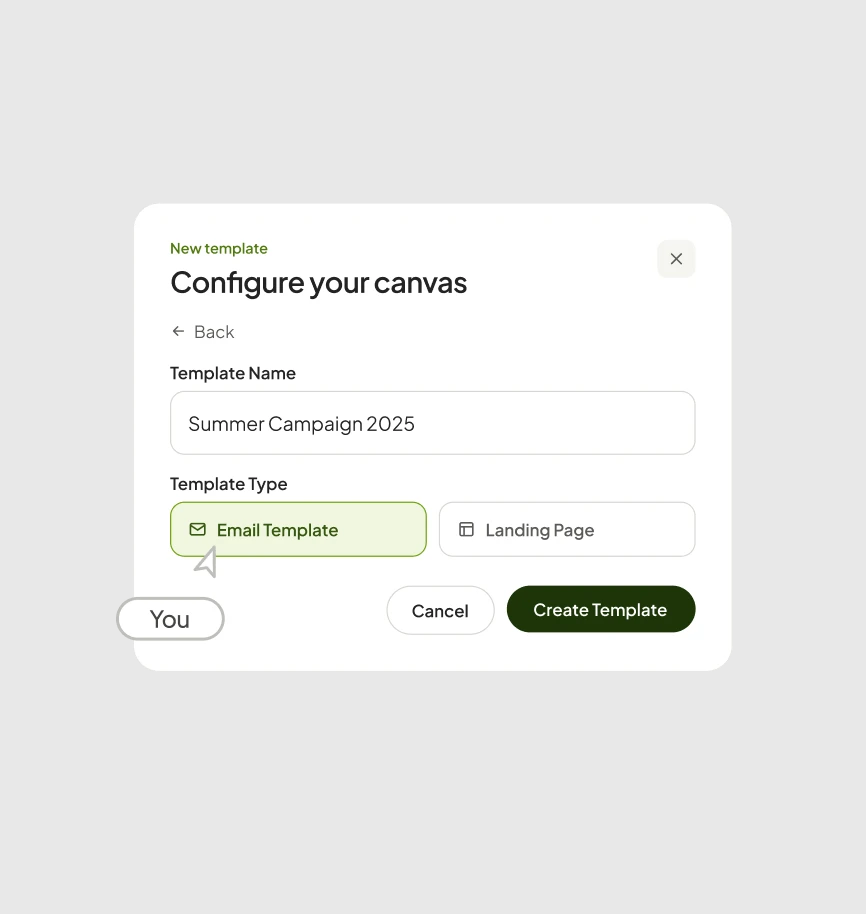
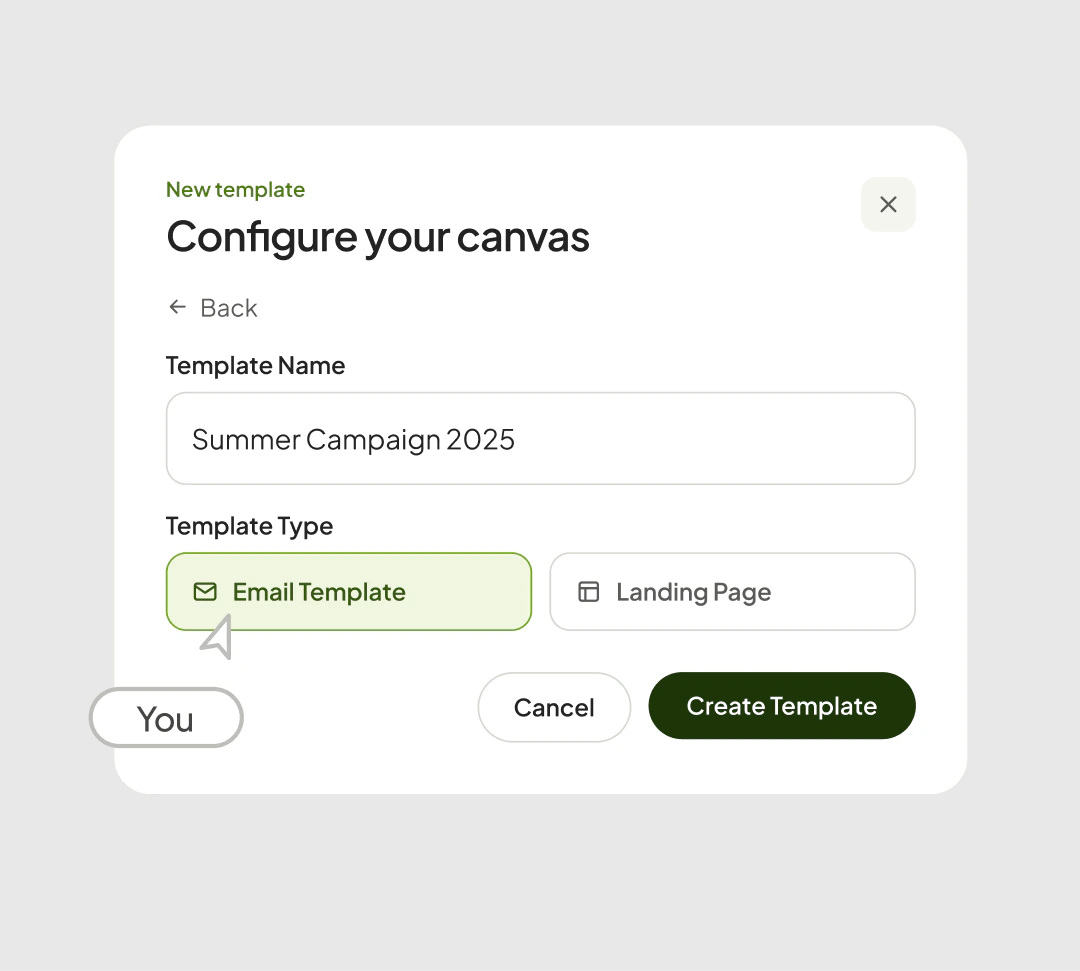
Steps: bigger cards and type from the updated Figma (532:24115)
Cards are 1128x536 (r20, 1.3px border, gap 52) with 540x485 screens
re-exported at 2x, and larger type: step number 18/27, title 24/30,
description 18/27. The stacking offsets (86 / 155) and the scroll pacing
stay as before, as asked. Narrower laptop columns narrow the cards instead
of overflowing.

Changed region(s): [[0.0935, 0.1838, 0.873, 0.7965], [0.4677, 0.7046, 0.5612, 0.7352], [0.0624, 0.7352, 0.0935, 0.7659]]

diff --git a/src/sections/Steps.module.css b/src/sections/Steps.module.css
@@ -55,15 +55,16 @@
 }
 
 /*
- * "Frame 2147239165": 886×642, centred at x 197 of the content column; cards at y 0 / 86 / 155.
- * The cards share one grid cell (later ones on top), offset by their top margins, so the stack sizes
- * itself. While pinned it is scaled by --fit to fit short windows.
+ * "Frame 2147239165": cards 1128 wide at x 66 of the content column (Figma 532:24115, updated). The
+ * cards keep the earlier stacking offsets, y 0 / 86 / 155 (Figma now shows 72 / 144). They share one
+ * grid cell (later ones on top), offset by their top margins, so the stack sizes itself. While pinned
+ * it is scaled by --fit to fit short windows; in narrower columns the cards narrow instead.
  */
 .stack,
 .track {
   position: relative;
-  width: 884px;
-  margin-left: calc(50% - 443px);
+  width: min(1128px, 100%);
+  margin-left: max(0px, calc(50% - 574px));
 }
 
 .stack {
@@ -81,36 +82,37 @@
   position: sticky;
 }
 
-/* Card: 507 tall, 1px #d7d8d3 inside stroke, r16, padding 24 (content at 25,25), clipped. */
-/* Positioned so later cards always paint over earlier ones (the screens are positioned too). */
+/*
+ * Card: 1128×536 (its height follows the screen), 1.3px #d7d8d3 inside stroke, r20, padding 24 (content
+ * at 25.3), gap 52, clipped. Positioned so later cards always paint over earlier ones. Figma has card 2
+ * 1px right of card 1 and card 3 1px left.
+ */
 .card {
   position: relative;
   grid-area: 1 / 1;
   display: flex;
-  height: 507px;
+  gap: 52px;
+  width: 100%;
   padding: 24px;
-  border: 1px solid var(--line);
-  border-radius: 16px;
+  border: 1.296px solid var(--line);
+  border-radius: 20px;
   background: var(--white);
   overflow: hidden;
 }
 
 .card1 {
-  width: 882px;
-  gap: 40px;
   background: var(--surface-50);
 }
 
 .card2 {
+  left: 1px;
   margin-top: 86px;
-  width: 884px;
-  gap: 42px;
 }
 
 .card3 {
+  left: -1px;
   margin-top: 155px;
-  width: 884px;
-  gap: 42px;
+  border-width: 1.245px;
 }
 
 /* Reduced motion: the three cards one after another, nothing covered. */
@@ -125,12 +127,17 @@
   margin-top: 0;
 }
 
-/* "Screen": 433×457. Step 2's is a 10% #1e1e1e wash with the AI dialogs over it (at 85,112 of the card). */
+/*
+ * "Screen": 540×485.4 (exported at 2×; the 10% #1e1e1e wash is part of steps 1 and 3). Step 2's is
+ * the wash in CSS with the AI dialogs over it (428×387.2 at 55.7, 48.7). Narrower cards shrink it
+ * with its proportions.
+ */
 .screen {
   position: relative;
-  flex: none;
-  width: 433px;
-  height: 457px;
+  flex: 0 1 540px;
+  align-self: flex-start;
+  min-width: 0;
+  aspect-ratio: 540 / 485.4;
 }
 
 .card2 .screen {
@@ -146,50 +153,54 @@
 
 .dialogs {
   position: absolute;
-  top: 87px;
-  left: 60px;
-  width: 315.63px;
-  height: 281.53px;
+  top: 10.03%;
+  left: 10.31%;
+  width: 79.26%;
+  height: auto;
   max-width: none;
 }
 
-/* "Frame 2147239150": 359 wide, column, space-between: step label · title + description. */
+/* "Frame 2147239150": 465.2 wide (446.9 on step 3), column, space-between: step label · title + text. */
 .text {
   display: flex;
-  flex: none;
+  flex: 0 1 465.2px;
   flex-direction: column;
   justify-content: space-between;
-  width: 359px;
+  min-width: 0;
 }
 
-/* 600 14/16.1, −0.35, #5b5b58. */
+.card3 .text {
+  flex-basis: 446.9px;
+}
+
+/* desktop/body/lg/regular: 400 18/27, #5b5b58. */
 .label {
-  font-size: 14px;
-  line-height: 16.1px;
-  font-weight: 600;
-  letter-spacing: -0.35px;
+  font-size: 18px;
+  line-height: 27px;
+  font-weight: 400;
   color: var(--ink-500);
 }
 
+/* Title · 20.7 · description. */
 .copy {
   display: flex;
   flex-direction: column;
-  gap: 16px;
+  gap: 20.735px;
 }
 
-/* 600 20/26, −0.4, #333332. */
+/* desktop/heading/h5/semibold: 600 24/30, −0.48, #333332. */
 .title {
-  font-size: 20px;
-  line-height: 26px;
+  font-size: 24px;
+  line-height: 30px;
   font-weight: 600;
-  letter-spacing: -0.4px;
+  letter-spacing: -0.48px;
   color: var(--ink-700);
 }
 
-/* 400 16/24, #454543. */
+/* desktop/body/lg/regular: 400 18/27, #454543. */
 .body {
-  font-size: 16px;
-  line-height: 24px;
+  font-size: 18px;
+  line-height: 27px;
   font-weight: 400;
   color: var(--ink-600);
 }
@@ -222,11 +233,14 @@
   .card1,
   .card2,
   .card3 {
+    left: 0;
     flex-direction: column;
     gap: 20px;
     width: 100%;
     height: auto;
     padding: 16px;
+    border-width: 1px;
+    border-radius: 16px;
   }
 
   .card2 {
@@ -243,18 +257,15 @@
   }
 
   .screen {
+    flex: none;
+    align-self: stretch;
     width: 100%;
-    height: auto;
-    aspect-ratio: 433 / 457;
     border-radius: 8px;
     overflow: hidden;
   }
 
-  .dialogs {
-    top: 19.04%;
-    left: 13.86%;
-    width: 72.9%;
-    height: auto;
+  .card3 .text {
+    flex-basis: auto;
   }
 
   /* The text column dissolves so the step number can sit above the screen. */

diff --git a/src/sections/Steps.tsx b/src/sections/Steps.tsx
@@ -8,8 +8,9 @@ import styles from './Steps.module.css'
 
 /**
  * Figma "How it works" (532:24115): 1440×1049, #f5f7ed, r32 top corners overlapping the lime strip
- * by 24px. Header (heading, lead, "Start building"), then three step cards stacked 86 and 155px apart
- * (step 3 on top), exactly as in "Frame 2147239165".
+ * by 24px. Header (heading, lead, "Start building"), then three 1128×536 step cards (Figma's updated
+ * sizes and type) stacked 86 and 155px apart (step 3 on top). The stacking offsets and scroll pacing are
+ * kept from the earlier design at the designer's request (Figma now shows 72 / 144).
  *
  * Motion (scroll stack, every width): the stack pins in the viewport, scaled down if the window is too
  * short to show it whole. Each card holds fully readable before the next one rises from below to stack
@@ -23,21 +24,21 @@ const steps: Step[] = [
     label: '01/3',
     title: 'Start with your idea',
     body: 'Describe what you want to build, choose a template or start with a blank canvas.',
-    screen: <img className={styles.screenImg} src="/assets/v2/step-1-screen.webp" width={433} height={457} alt="" />,
+    screen: <img className={styles.screenImg} src="/assets/v2/step-1-screen.webp" width={540} height={485} alt="" />,
   },
   {
     label: '2/3',
     title: 'Make it Yours',
     body: 'Use AI or the visual editor to customise your content, layout and design.',
     screen: (
-      <img className={styles.dialogs} src="/assets/v2/step-2-dialogs.webp" width={315.63} height={281.53} alt="" />
+      <img className={styles.dialogs} src="/assets/v2/step-2-dialogs.webp" width={428} height={387} alt="" />
     ),
   },
   {
     label: '3/3',
     title: 'Publish and sell',
     body: 'Launch your website and give your customers a place to discover your business, explore your offers and buy from you.',
-    screen: <img className={styles.screenImg} src="/assets/v2/step-3-screen.webp" width={433} height={457} alt="" />,
+    screen: <img className={styles.screenImg} src="/assets/v2/step-3-screen.webp" width={540} height={485} alt="" />,
   },
 ]
 
